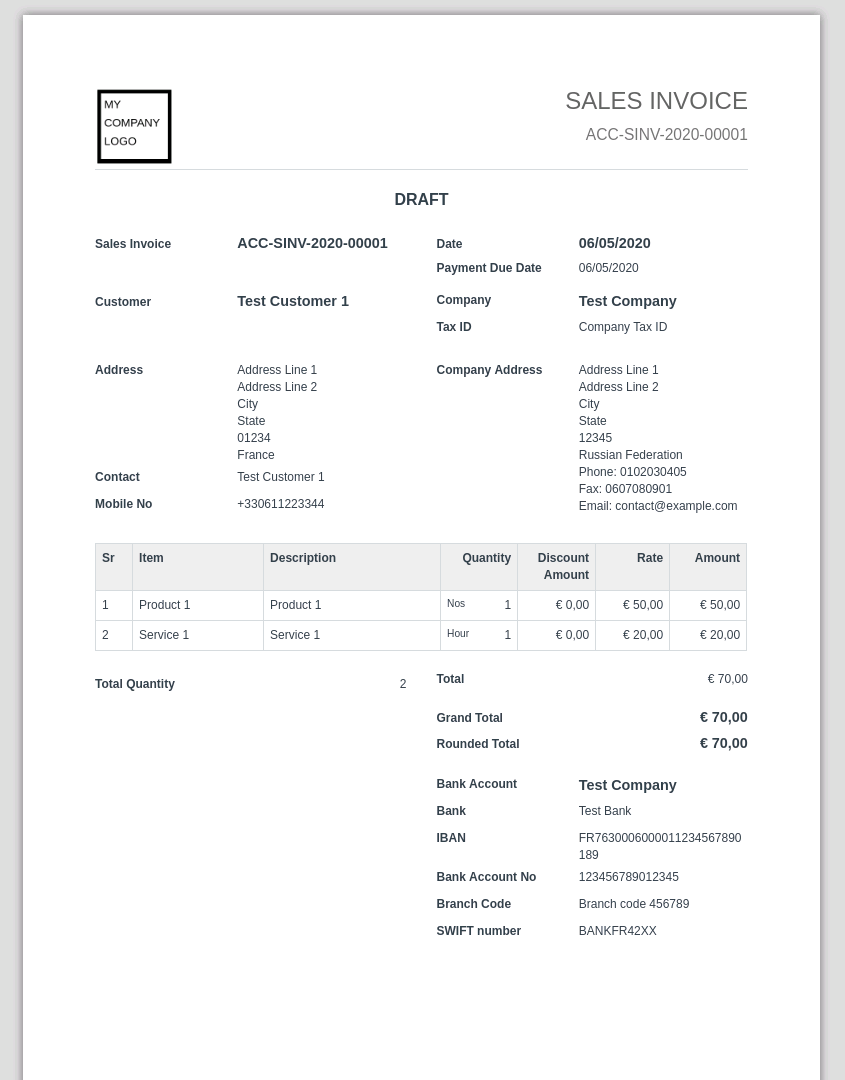
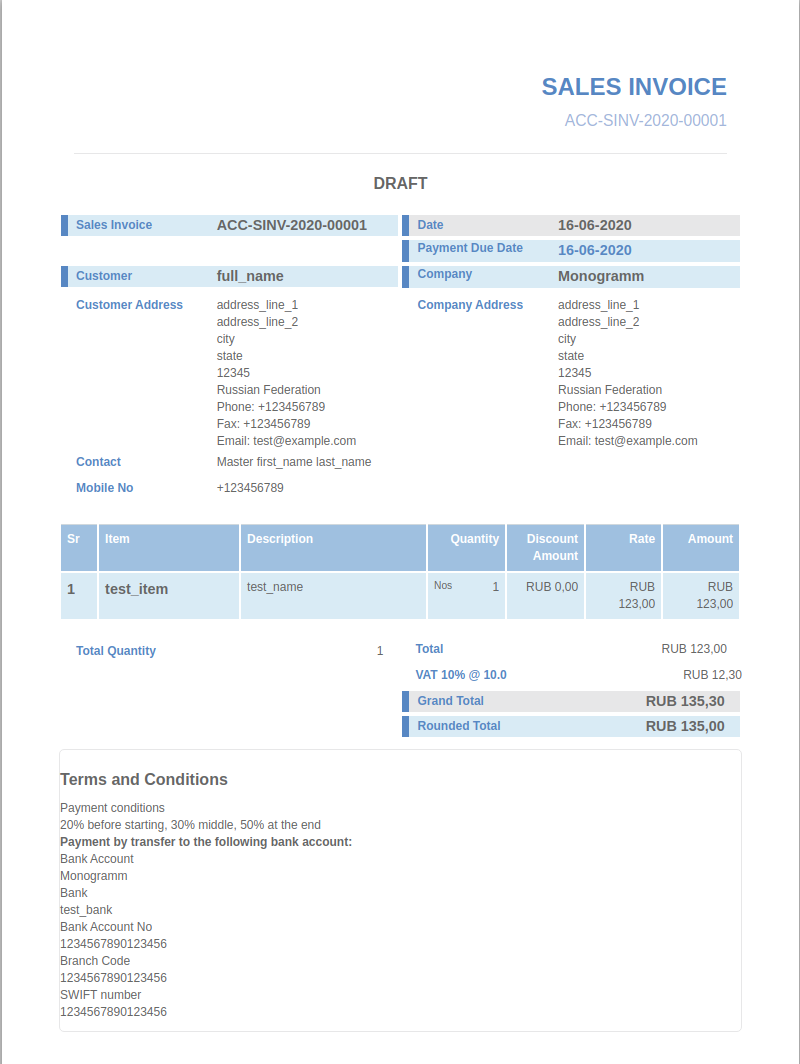
:sparkles: Add 4 Terms and conditions

diff --git a/recod_erpnext_design/docs/user/index.md b/recod_erpnext_design/docs/user/index.md
@@ -40,6 +40,24 @@ To use them, go to "_Website Settings_" and apply one of the available themes.
 
 ![Recod Website Dark Theme](./assets/recod_website_theme_dark.jpg "Recod Dark Theme Header")
 
+## Terms and Conditions
+
+### 20-30-50 by bank transfer
+
+![20-30-50](./assets/terms_and_conditions_20-30-50-by-bank-transfer.png "20-30-50 by bank transfer")
+
+### On delivery
+
+![Terms and conditions on delivery](./assets/terms_and_conditions_on_delivery.png "Terms and conditions on delivery")
+
+### On due date
+
+![On due date](./assets/terms_and_conditions_on_due_date.png "On due date")
+
+### On receipt
+
+![On receipt](./assets/terms_and_conditions_on_receipt.png "On receipt")
+
 ## License
 
 Copyright © 2020 [Monogramm](https://github.com/Monogramm).<br />

diff --git a/README.md b/README.md
@@ -14,6 +14,7 @@
 ## Recod ERPNext Design
 
 > :alembic: ERPNext application to provide new sample print formats and overall design for ERPNext.
+> We used **[Termsfeed](https://app.termsfeed.com/)** services for generate Terms and conditions
 
 ## :blue_book: Docs
 
